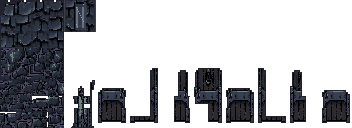
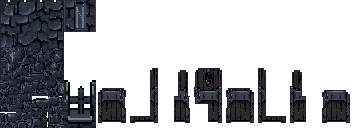
Walls: nightfell window is a real opening; art briefs stop asking for slate contours and a flipped head row
Nightfell's window front (insert x64-95, rows 2-7) is rebuilt from vanilla
stonewall's alpha mask in nightfell tones: posts, sill, bars with
see-through gaps instead of a free-standing figure. Nightfell and skystone
get conform_wall_sheet --fix --rebuild-roof-slot (roof window slot, seam
blend); nightfell is mapped back onto its own 53-colour palette.

The briefs caused the Twilight Merchant faults: CODEX_ART.md and the wall
briefs prescribed a flat (34,34,46) contour, wearables.md said armour row 0
faces down. Both now state the vanilla rule.

Changed region(s): [[0.1562, 0.625, 0.2812, 1.0]]

diff --git a/tools/codex_wall.py b/tools/codex_wall.py
@@ -92,12 +92,13 @@ vorgegebenen Umrisse gemalt, auch nicht "damit es zusammenhaengt".
   Farben scheitern; gute Wandblaetter haben 19-38 Farben).
 - Alpha hart auf 0 oder 255 setzen, keine Halbtransparenz, keine
   Anti-Aliasing-Raender.
-- 1px Kontur in (34,34,46) um jede undurchsichtige Flaeche, wie bei
+- 1px Kontur im dunkleren Eigenton (x0.5) der Flaeche daneben, nie Schwarz/Grau,
+  um jede undurchsichtige Flaeche, wie bei
   vanilla-filled.png zu sehen.
 - Zeichne die Endkunst NICHT mit PIL-Formen (draw.rectangle, draw.ellipse
   etc.) -- das sieht man sofort als Vektor-Look. Der Weg ist immer:
   image_gen-Master -> Modalfarben-Downscale -> <=40 Farben -> Alpha hart
-  0/255 -> 1px-Kontur (34,34,46).
+  0/255 -> 1px-Kontur im dunklen Eigenton.
 - Falls du mit PIL arbeitest (Zuschnitt, Kanal-Arbeit, Farbreduktion):
   PYTHONPATH=/home/blackoffset/dev/pylib python3 -- kein venv, nichts
   nachladen.

diff --git a/CHANGELOG.md b/CHANGELOG.md
@@ -28,6 +28,14 @@ All notable changes to this project are documented here. Format loosely follows
   uploads go to `art-inbox/`.
 
 ### Fixed
+- **Nightfell and Skystone walls: windows.** The nightfell window front was a
+  free-standing figure with no wall around it; it is now vanilla stonewall's
+  window opening (posts, sill, bars with see-through gaps) in nightfell
+  tones. Both sets get their roof window slot rebuilt and their junction
+  seams blended (`conform_wall_sheet.py --fix --rebuild-roof-slot`).
+- Art briefs asked for a flat (34,34,46) contour and said armour row 0
+  faces down; both were wrong (vanilla: darker shade of the neighbour
+  colour; row 0 faces up) and are corrected in `docs/art/`.
 - **The Twilight Merchant came naked, nameless and with an empty shop.**
   Texture checks looked at the jar root instead of `resources/`, so none of
   his wares registered; his name line was missing too. Once they did, the

diff --git a/docs/art/CODEX_ART.md b/docs/art/CODEX_ART.md
@@ -12,7 +12,9 @@ it is **updated after every art round** (see "Lessons" at the bottom and
 2. Make a **master with the built-in image_gen**: one pose / view per image,
    large, plain background, light from top left, Necesse 3/4 top-down view.
 3. Down to the target size by **modal colour per block** (not bilinear),
-   **≤ 40 colours**, **alpha hard 0/255**, 1 px outline `(34,34,46)`.
+   **≤ 40 colours**, **alpha hard 0/255**, 1 px outline in a darker shade (×0.5) of the colour
+   beside it, as vanilla — never black or one flat grey. Measure it: no band
+   thicker than 1 px.
    `tools/convert_reference.py --native WxH` does this.
 4. Small pixel fixes by hand are fine. **Shapes drawn with PIL
    (`draw.rectangle`, `ellipse`, `line`) are never the final art** — that is

diff --git a/docs/art/briefs/wearables.md b/docs/art/briefs/wearables.md
@@ -1,7 +1,9 @@
 # Brief: wearables (head / chest / arms / boots)
 
 - Sheets as vanilla `player/armor/*` (448 wide = 7 × 64 cells); rows are the
-  facing directions, row 0 faces down. Check the sizes of the sheet you replace.
+  facing directions: row 0 = facing UP (back of head/body), row 1 = right,
+  row 2 = facing DOWN (face/front), row 3 = left. Lay column 0 next to
+  vanilla `goldhelmet.png` / `captainsshirt.png` before delivering. Check the sizes of the sheet you replace.
 - Draw each FACE (front, side, back) as its own image_gen master, then place.
 - A mask or helmet must cover the vanilla skin head: head box per cell is
   x18–46, y14–38 of `player/skin/head.png`; less than 5 % skin may show

diff --git a/docs/art/WALLS_CODEX.md b/docs/art/WALLS_CODEX.md
@@ -61,7 +61,7 @@ Fensterslot-Regel) via `conform_wall_sheet.py`.
   Alpha 0.
 - Technikkette PFLICHT: image_gen-Master -> Modalfarben-Downscale (kein
   simples Resize!) -> hoechstens 40 Farben -> Alpha hart 0/255 -> 1px-Kontur
-  (34,34,46). Keine PIL-Formen (`draw.rectangle` etc.) fuer die Endkunst --
+  in dunklerem Eigenton (x0.5), nie Schwarz/Grau. Keine PIL-Formen (`draw.rectangle` etc.) fuer die Endkunst --
   das sieht man sofort als Vektor-Look.
 - PIL nur mit `PYTHONPATH=/home/blackoffset/dev/pylib python3`, kein venv.
 - Nur unterhalb von `build/` schreiben.
